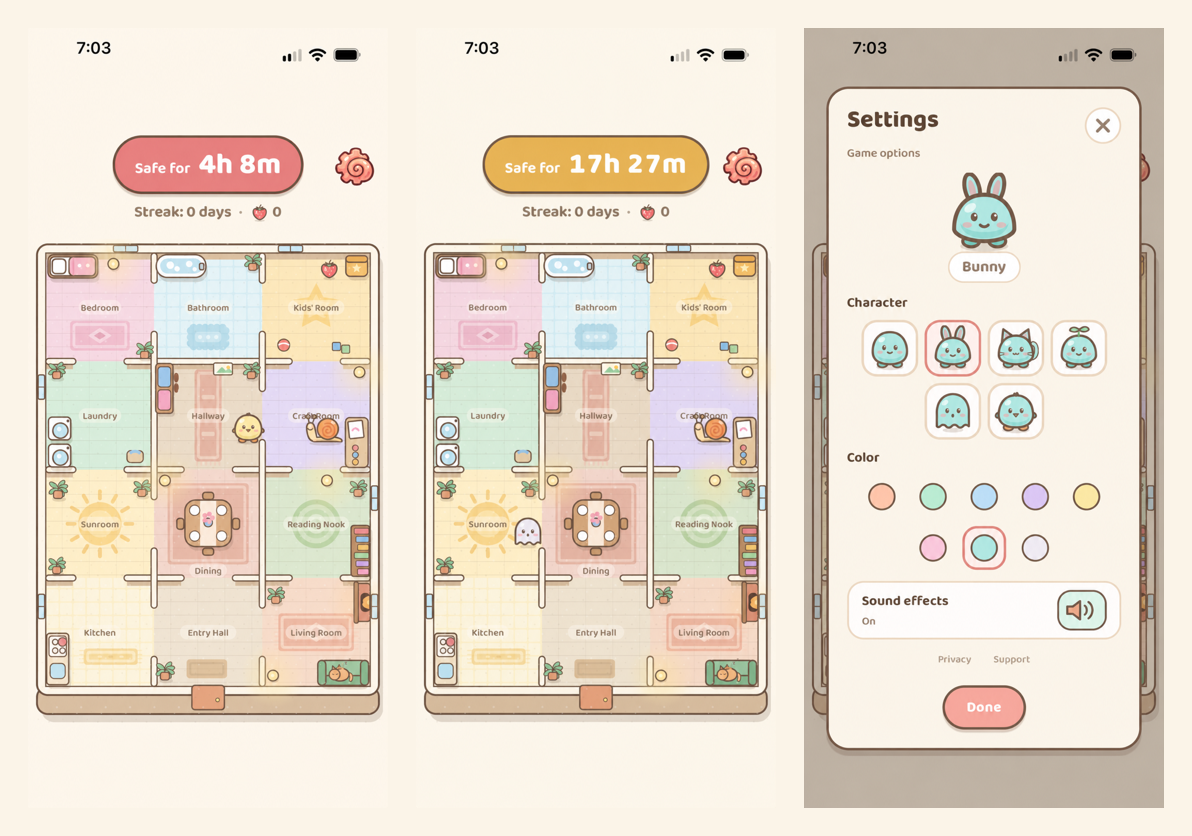
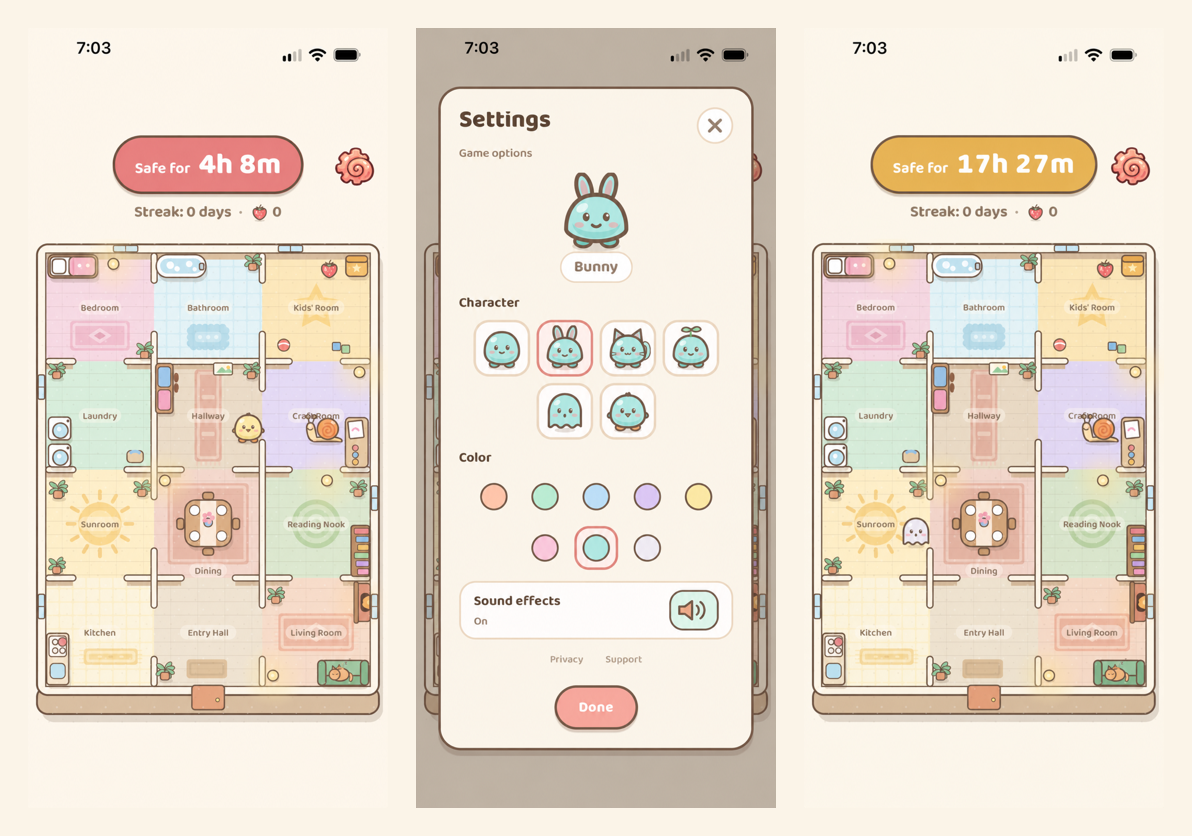
Refine README app presentation

diff --git a/README.md b/README.md
@@ -1,6 +1,6 @@
 <p align="center">
   <a href="https://apps.apple.com/us/app/snail-house/id6826937107">
-    <img src="assets/app-store/snail-house-ios-icon-final.png" width="160" alt="Snail House app icon">
+    <img src="assets/readme/snail-house-icon-rounded.png" width="160" alt="Snail House app icon">
   </a>
 </p>
 
@@ -11,7 +11,7 @@
 </p>
 
 <p align="center">
-  <strong><a href="https://apps.apple.com/us/app/snail-house/id6826937107">Download Snail House on the App Store</a></strong>
+  <strong><a href="https://apps.apple.com/us/app/snail-house/id6826937107">Download on IOS store</a></strong>
   &nbsp;·&nbsp;
   <a href="https://hi-dad.github.io/snail-house-support/support.html">Support</a>
   &nbsp;·&nbsp;
